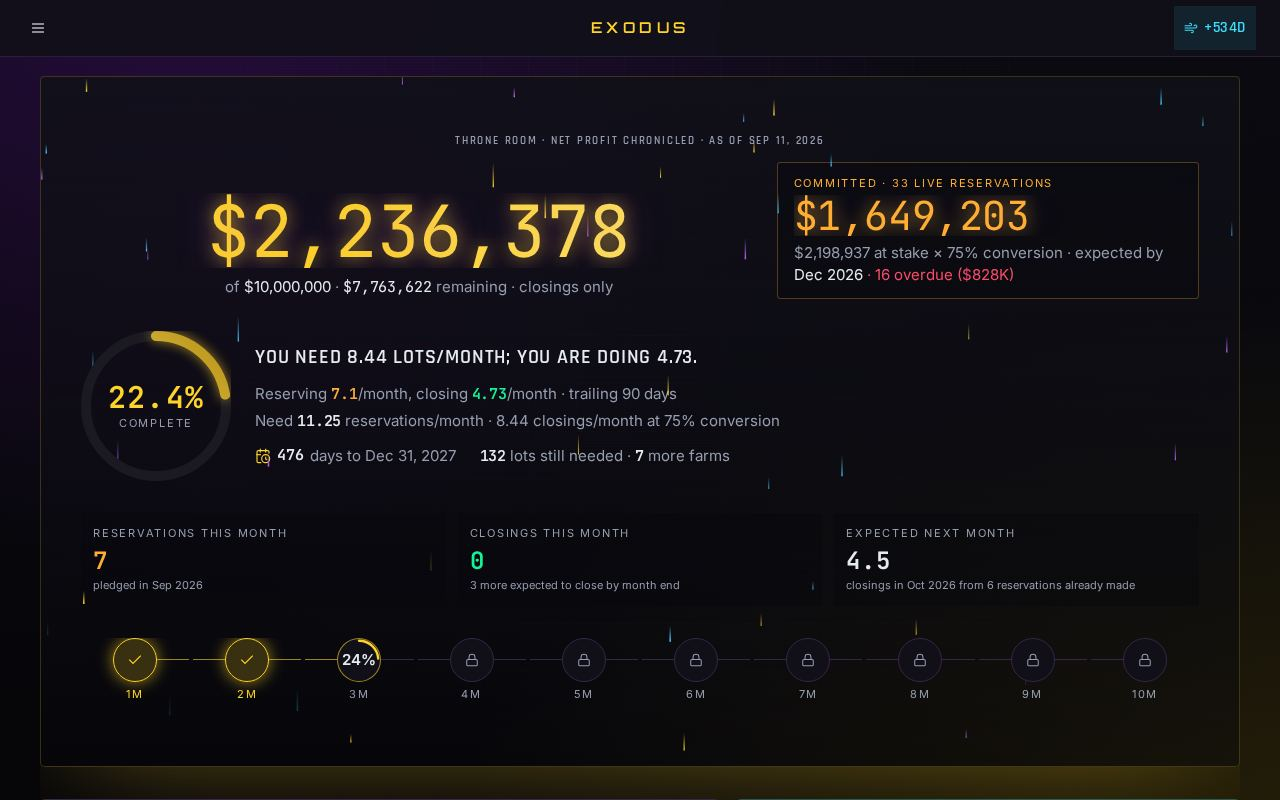
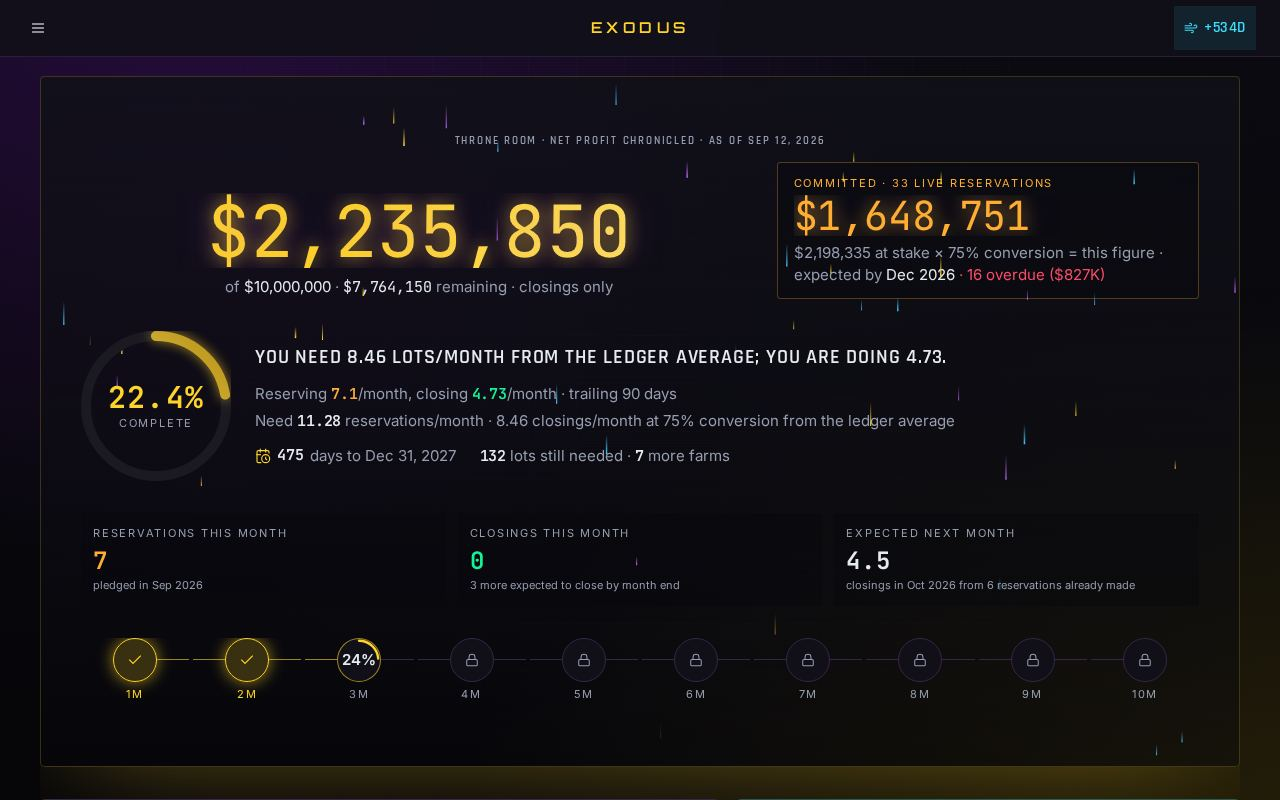
docs: labeling deploy — Capital outstanding Stat is $4,145,355.48 owed to sponsors with +$800,000 own capital; pace models named; live net profit $2,235,850 / 8.46 lots/month (as-of Sep 12, #105); screenshots refreshed

diff --git a/PROGRESS.md b/PROGRESS.md
@@ -14,11 +14,11 @@ Branch `v2`. Snapshot of live Payments taken **2026-09-11 02:07 UTC** and **refr
 19:17 UTC and again 21:31 UTC** (`npm run snapshot`; every pinned number re-pinned each time — see
 **"Snapshot 2026-09-11 refresh"** and its "Second refresh the same day" near the end of the file;
 the sections in between quote the 02:07 figures).
-Last full verification (build · lint · 358 unit tests · 263 Playwright tests): **2026-09-11**, followed
-by the Payments-staff-only deploy and `verify:live` (gate refuses a staged non-admin live · net profit
-$2,236,378 · trapped $1,103,375 · "You need 8.44 lots/month; you are doing 4.73." · three themes
-persist) — the live Exodus figures are in **"Exodus — status"** and the gate in **"Access — Payments
-staff only"** at the end of the file.
+Last full verification (build · lint · 358 unit tests · 265 Playwright tests): **2026-09-11**, followed
+by the labeling deploy and `verify:live` (Capital outstanding Stat **$4,145,355.48** = Debt, hint
+*"+ $800,000 own capital tied up"* · net profit $2,235,850 · trapped $1,102,974 · "You need 8.46
+lots/month from the ledger average; you are doing 4.73." · three themes persist) — see **"Labels —
+Capital outstanding and required-pace models"** at the end of the file.
 
 Order of work, as requested: Phase 1 numbers verified → connection check → domain reproduces the
 verified numbers → **Phase 2: Epic** → **Pipeline layer** → **three visual themes + POLISH loops
@@ -846,4 +846,8 @@ Three labeling fixes; no domain math changed.
 3. **Committed sub-line** ends *"= this figure"* so "$X at stake × 75% conversion" cannot be read as
    the big number being the at-stake amount.
 
-**Live (filled after the deploy below).**
+**Live (deploy 2026-09-11 ≈23:50 UTC, `verify:live` exit 0).** Capital outstanding Stat **$4,145,355.48
+(= Debt)** · hint *"Still owed to sponsors · + $800,000 own capital tied up"*. Verdict *"You need
+8.46 lots/month from the ledger average; you are doing 4.73."* (8.46 not 8.44: as-of is now Sep 12
+and remaining net profit moved — OPEN_QUESTIONS #105). Committed sub-line ends *= this figure*.
+Throne Room: net profit **$2,235,850** · trapped **$1,102,974** · three themes persist.

diff --git a/OPEN_QUESTIONS.md b/OPEN_QUESTIONS.md
@@ -1097,3 +1097,11 @@ deal terms" would have put two different numbers under the same model. Copy only
 Throne verdict (when it is a "You need") and the required-pace line read **"from the ledger
 average"**; `/warplan` verdict and the required / +1-buffer "Lots / month" cells read **"per the
 War Plan's real deal terms"**; the Oracle required-pace card reads **"replaying today's mix"**.
+
+## 105. Live Throne numbers moved overnight (2026-09-11 → 2026-09-12)
+
+`verify:live` after the labeling deploy read net profit **$2,235,850** (was $2,236,378 at 22:08 UTC),
+trapped **$1,102,974** (was $1,103,375), and **"You need 8.46 lots/month"** (was 8.44). The as-of
+date on the page is Sep 12; days left 475 (was 476). Capital outstanding Stat and Debt stayed
+**$4,145,355.48**, own capital **$800,000**. The 8.46 is still `lotsStillNeeded ÷ monthsToDeadline`
+(ledger average); it is not a math change. Not forced back to 8.44.
